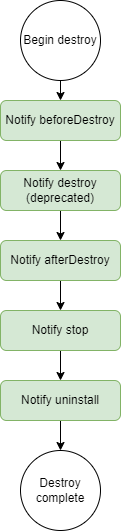
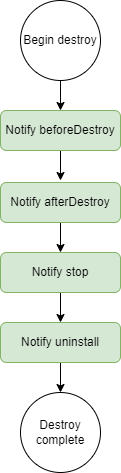
Remove destroy hook (#10549)
* remove destroy hook

* revert package-lock.json changes

* update test

* add migration guide note

* fix karma failing test

* change way of importing package.json

diff --git a/types/index.d.ts b/types/index.d.ts
@@ -1088,14 +1088,6 @@ export interface Plugin<TType extends ChartType = ChartType, O = AnyObject> exte
    * @param {Chart} chart - The chart instance.
    * @param {object} args - The call arguments.
    * @param {object} options - The plugin options.
-   * @deprecated since version 3.7.0 in favour of afterDestroy
-   */
-  destroy?(chart: Chart, args: EmptyObject, options: O): void;
-  /**
-   * Called after the chart has been destroyed.
-   * @param {Chart} chart - The chart instance.
-   * @param {object} args - The call arguments.
-   * @param {object} options - The plugin options.
    */
   afterDestroy?(chart: Chart, args: EmptyObject, options: O): void;
   /**

diff --git a/rollup.config.js b/rollup.config.js
@@ -2,7 +2,9 @@ import cleanup from 'rollup-plugin-cleanup';
 import json from '@rollup/plugin-json';
 import resolve from '@rollup/plugin-node-resolve';
 import {terser} from 'rollup-plugin-terser';
-import {version, homepage} from './package.json';
+import { readFileSync } from "fs";
+
+const {version, homepage} = JSON.parse(readFileSync('./package.json'));
 
 const banner = `/*!
  * Chart.js v${version}

diff --git a/src/core/core.controller.js b/src/core/core.controller.js
@@ -955,9 +955,6 @@ class Chart {
       this.ctx = null;
     }
 
-    // TODO V4: delete destroy hook and reference to it in plugin flowchart
-    this.notifyPlugins('destroy');
-
     delete instances[this.id];
 
     this.notifyPlugins('afterDestroy');

diff --git a/test/specs/core.controller.tests.js b/test/specs/core.controller.tests.js
@@ -1806,7 +1806,8 @@ describe('Chart', function() {
         'resize'
       ],
       destroy: [
-        'destroy'
+        'beforeDestroy',
+        'afterDestroy'
       ]
     };
 

diff --git a/docs/migration/v4-migration.md b/docs/migration/v4-migration.md
@@ -11,6 +11,7 @@ A number of changes were made to the configuration options passed to the `Chart`
 #### Specific changes
 
 * The radialLinear grid indexable and scriptable options don't decrease the index of the specified grid line anymore.
+* The `destroy` plugin hook has been removed and replaced with `afterDestroy`.
 * Ticks callback on time scale now receives timestamp instead of a formatted label.
 
 #### Type changes
